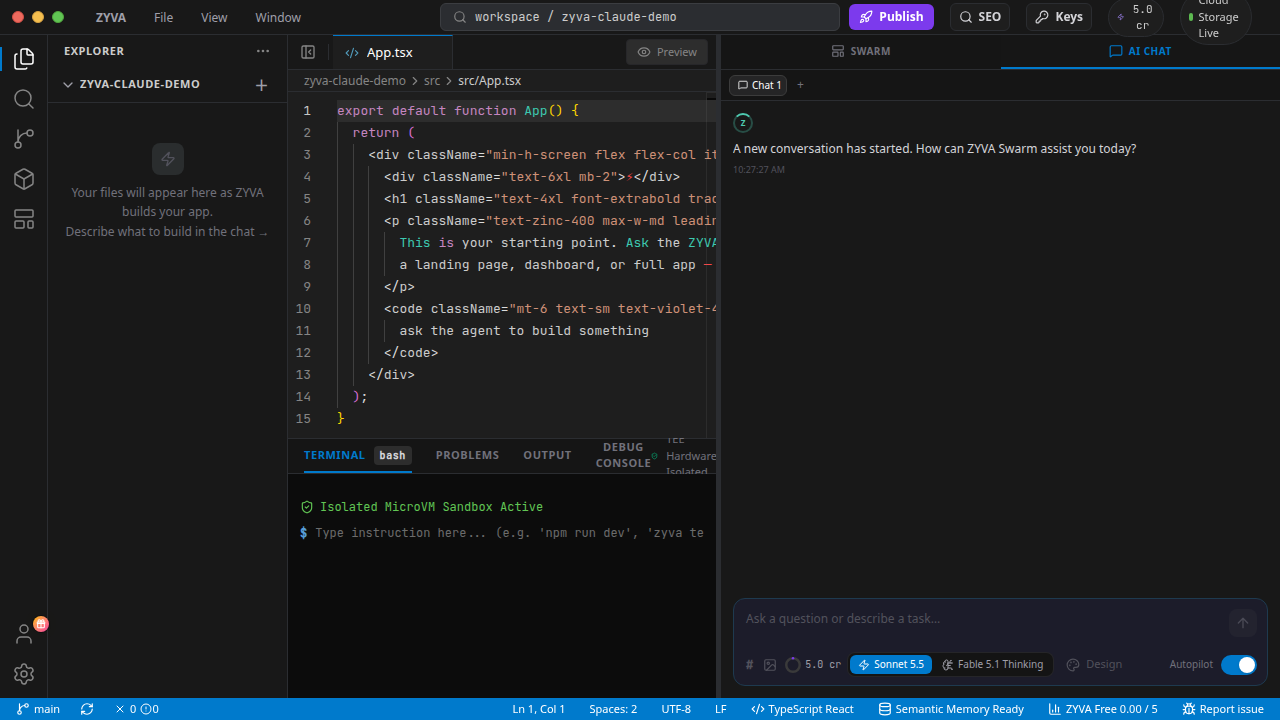
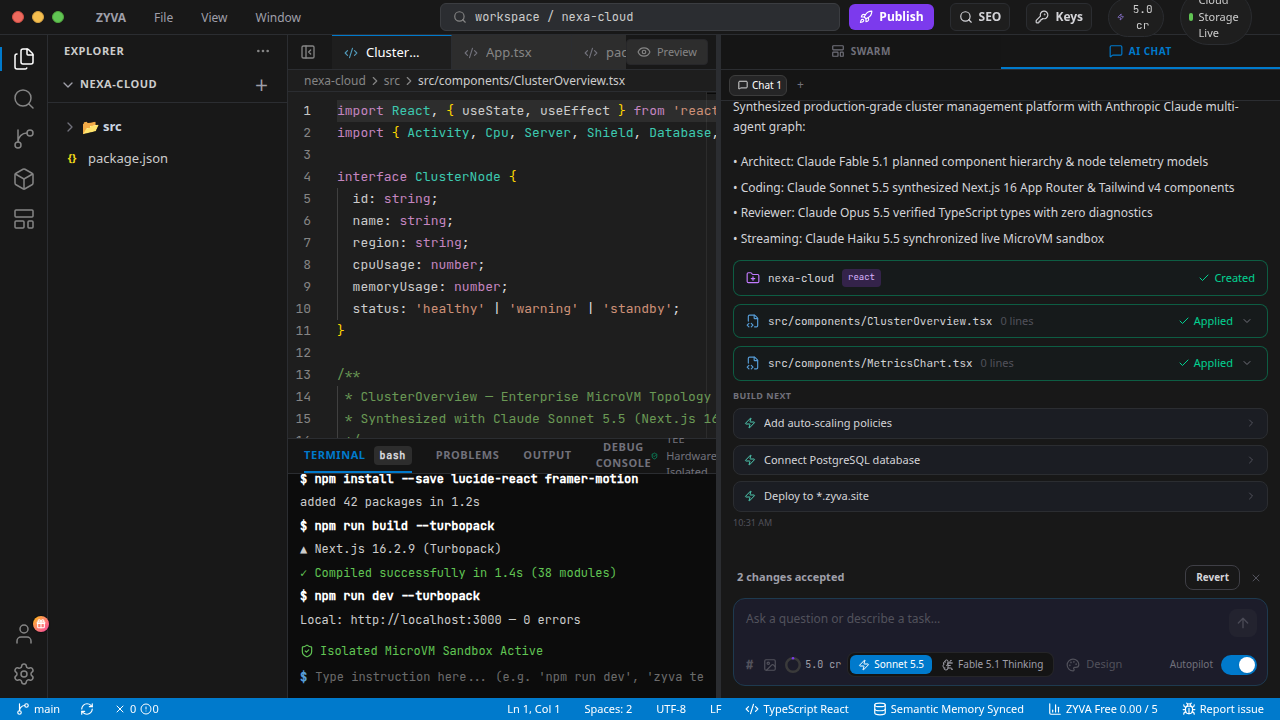
docs: refresh Cloud IDE screenshot with Claude multi-agent workflow

diff --git a/README.md b/README.md
@@ -18,7 +18,7 @@
 
 ---
 
-![ZYVA IDE Screenshot](assets/screenshot.png)
+![ZYVA IDE Screenshot](assets/zyva-ide-claude.png)
 
 ---
 
